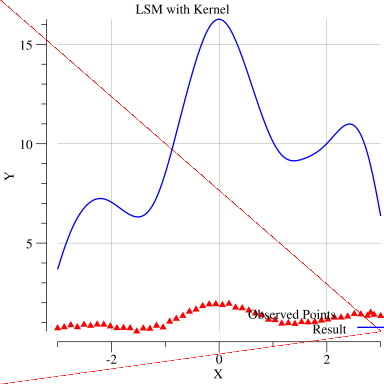
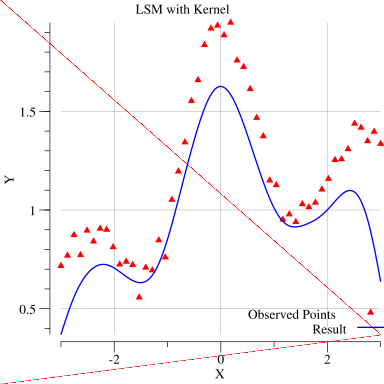
update

diff --git a/least-squares-gauss-kernel/lsm-kernel.go b/least-squares-gauss-kernel/lsm-kernel.go
@@ -113,7 +113,7 @@ func main() {
     result[i].Y = 0.0
     for j := 0; j < n; j++ {
       kernel := math.Exp(-math.Pow(result[i].X - answer[j].X, 2.0) / (2.0 * band_width * band_width))
-      result[i].Y += kernel * t0[j] 
+      result[i].Y += kernel * t0[j] / 10.0
     }
   }
 
